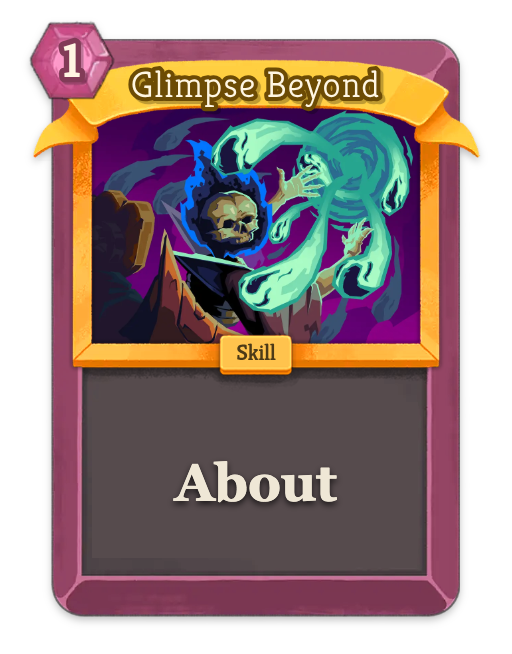
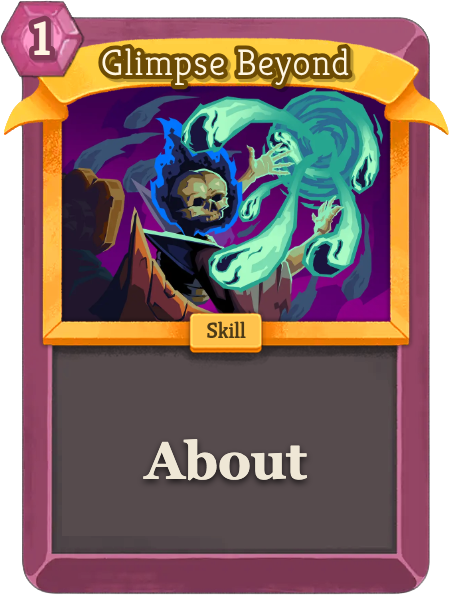
cards are now fixed on screen

diff --git a/src/components/HeroSection.tsx b/src/components/HeroSection.tsx
@@ -21,11 +21,11 @@ const CARDS = [
 type CardName = (typeof CARDS)[number]['name']
 
 const EASE: [number, number, number, number] = [0.16, 1, 0.3, 1]
-const CARD_W = 264
-const CARD_H = Math.round((264 * 654) / 512) // 337
-const CARD_BASE = -18
-const PILE_W = 78
-const PILE_LEFT = 40
+const CARD_W = 200
+const CARD_H = Math.round((200 * 654) / 512) // 255
+const CARD_BASE = -40
+const PILE_W = 50
+const PILE_LEFT = 24
 const PILE_CENTER = PILE_LEFT + PILE_W / 2
 
 interface CardLayout {
@@ -48,7 +48,7 @@ function computeLayout(
   drawn: number,
   played: CardName[],
 ): { cards: CardLayout[]; cx: number; pileCenter: number } {
-  const spacing = Math.min(140, Math.max(108, containerW / 9))
+  const spacing = Math.min(106, Math.max(82, containerW / 12))
   const cx = containerW / 2
   const anchorLeft = Math.round(cx - CARD_W / 2)
   const dealt = CARDS.slice(0, drawn)
@@ -256,6 +256,7 @@ function Card({ cd, fromX, containerW, containerH, onPlay, onDiscard }: CardProp
         touchAction: 'none',
         userSelect: 'none',
         WebkitUserSelect: 'none',
+        pointerEvents: 'auto',
       }}
     >
       <div style={{ position: 'absolute', inset: 0, filter: 'drop-shadow(0 18px 30px rgba(0,0,0,.55))' }}>
@@ -319,15 +320,15 @@ export function HeroSection() {
     <div
       ref={containerRef}
       style={{
-        position: 'relative',
-        width: '100%',
-        minHeight: '100vh',
-        overflow: 'hidden',
+        position: 'fixed',
+        inset: 0,
+        pointerEvents: 'none',
         fontFamily: "'Cinzel', serif",
+        zIndex: 100,
       }}
     >
       {/* Draw pile — bottom-left */}
-      <div style={{ position: 'absolute', left: '40px', bottom: '48px', width: '78px' }}>
+      <div style={{ position: 'absolute', left: '20px', bottom: '16px', width: '50px', pointerEvents: 'auto' }}>
         <img
           src={drawDeckImg}
           alt="Draw pile"
@@ -343,10 +344,10 @@ export function HeroSection() {
         <div
           style={{
             position: 'absolute',
-            right: '-14px',
-            bottom: '-12px',
-            width: '46px',
-            height: '46px',
+            right: '-10px',
+            bottom: '-8px',
+            width: '30px',
+            height: '30px',
             display: 'flex',
             alignItems: 'center',
             justifyContent: 'center',
@@ -356,7 +357,7 @@ export function HeroSection() {
         >
           <span
             style={{
-              font: "800 18px 'Cinzel', serif",
+              font: "800 12px 'Cinzel', serif",
               color: '#fff',
               textShadow: '0 1px 2px rgba(0,0,0,.55)',
               transform: 'translateY(-1px)',
@@ -369,7 +370,7 @@ export function HeroSection() {
       </div>
 
       {/* Discard pile — bottom-right */}
-      <div style={{ position: 'absolute', right: '40px', bottom: '48px', width: '78px' }}>
+      <div style={{ position: 'absolute', right: '20px', bottom: '16px', width: '50px', pointerEvents: 'auto' }}>
         <img
           src={discardDeckImg}
           alt="Discard pile"
@@ -385,10 +386,10 @@ export function HeroSection() {
         <div
           style={{
             position: 'absolute',
-            left: '-14px',
-            bottom: '-12px',
-            width: '46px',
-            height: '46px',
+            left: '-10px',
+            bottom: '-8px',
+            width: '30px',
+            height: '30px',
             display: 'flex',
             alignItems: 'center',
             justifyContent: 'center',
@@ -398,7 +399,7 @@ export function HeroSection() {
         >
           <span
             style={{
-              font: "800 18px 'Cinzel', serif",
+              font: "800 12px 'Cinzel', serif",
               color: '#fff',
               textShadow: '0 1px 2px rgba(0,0,0,.55)',
               transform: 'translateY(-1px)',
